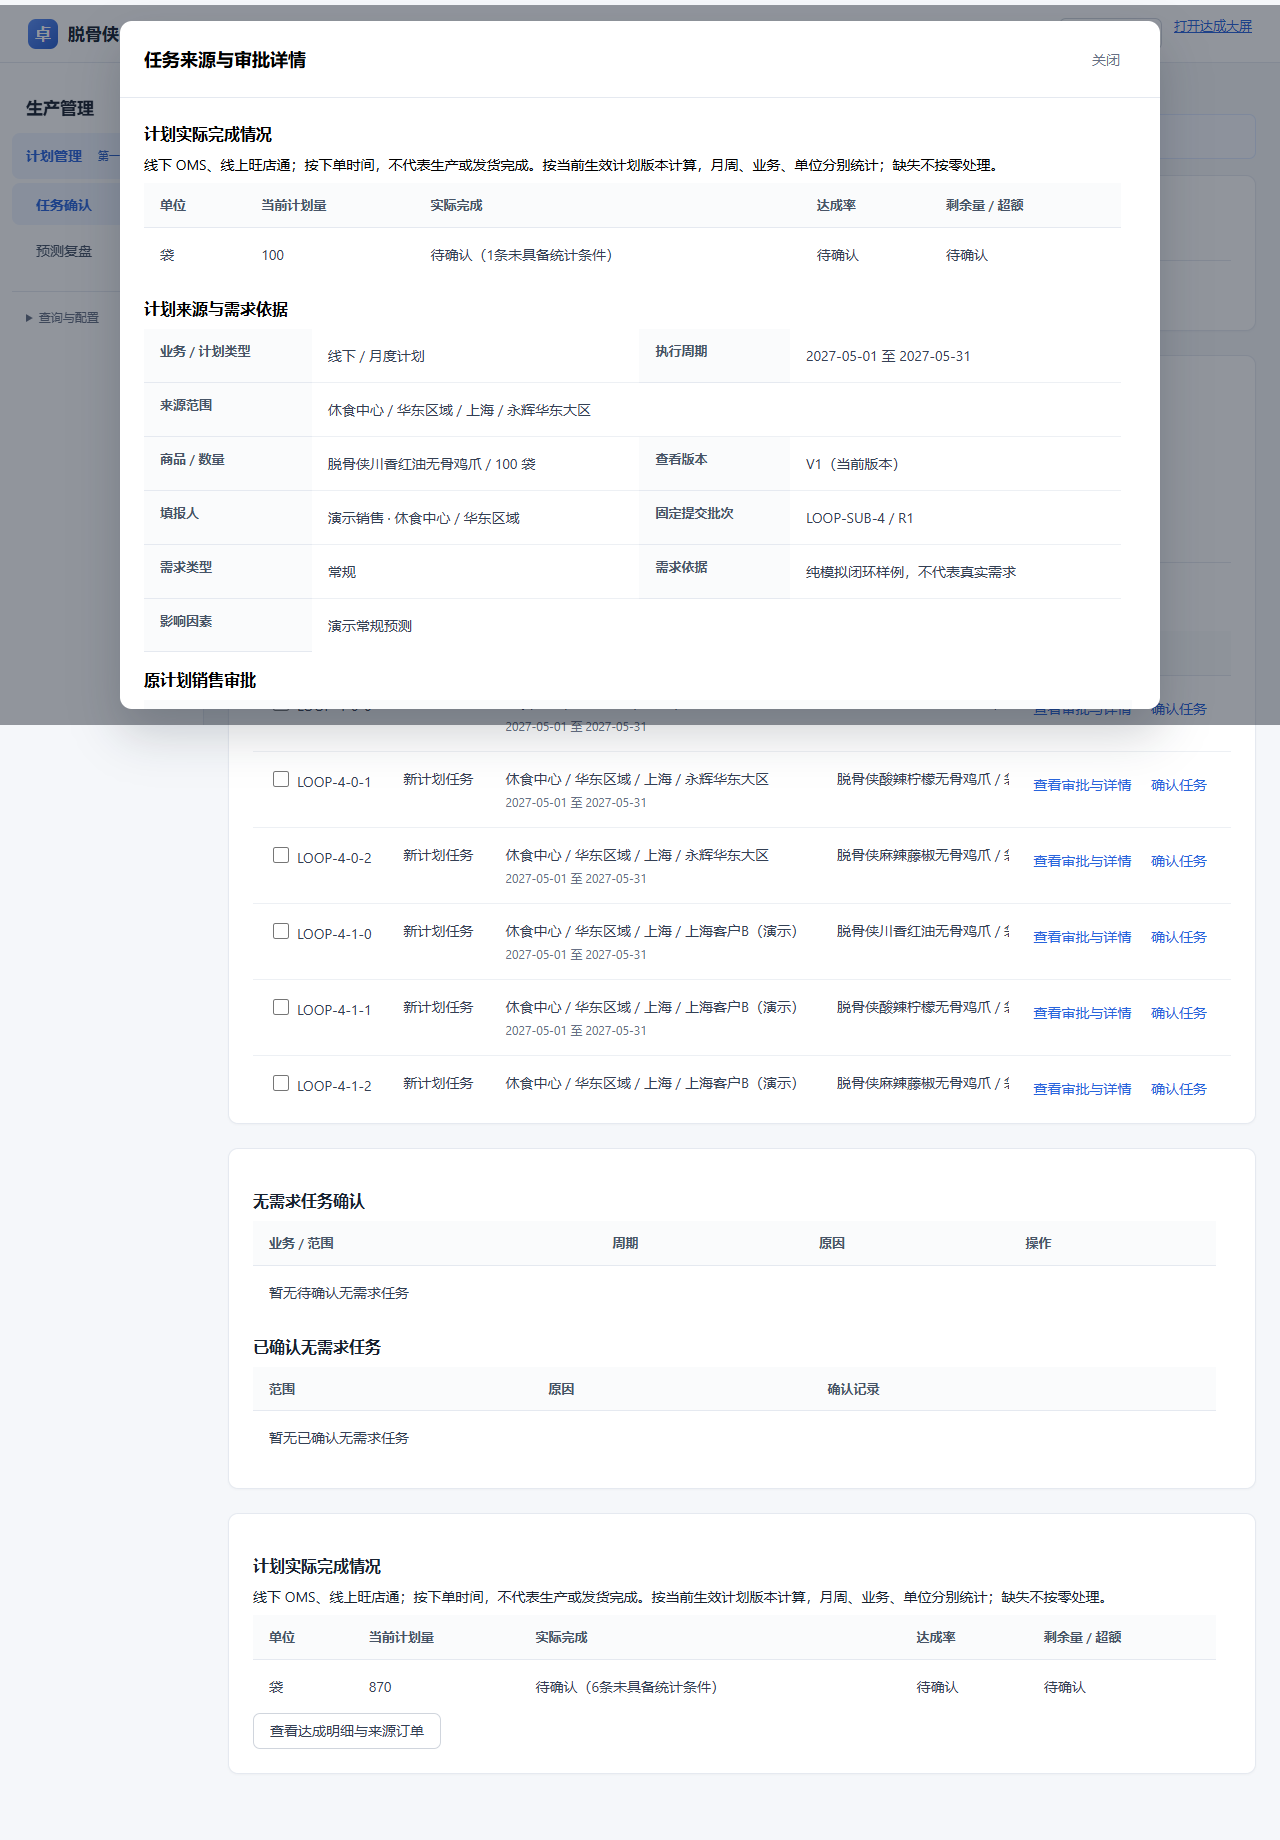
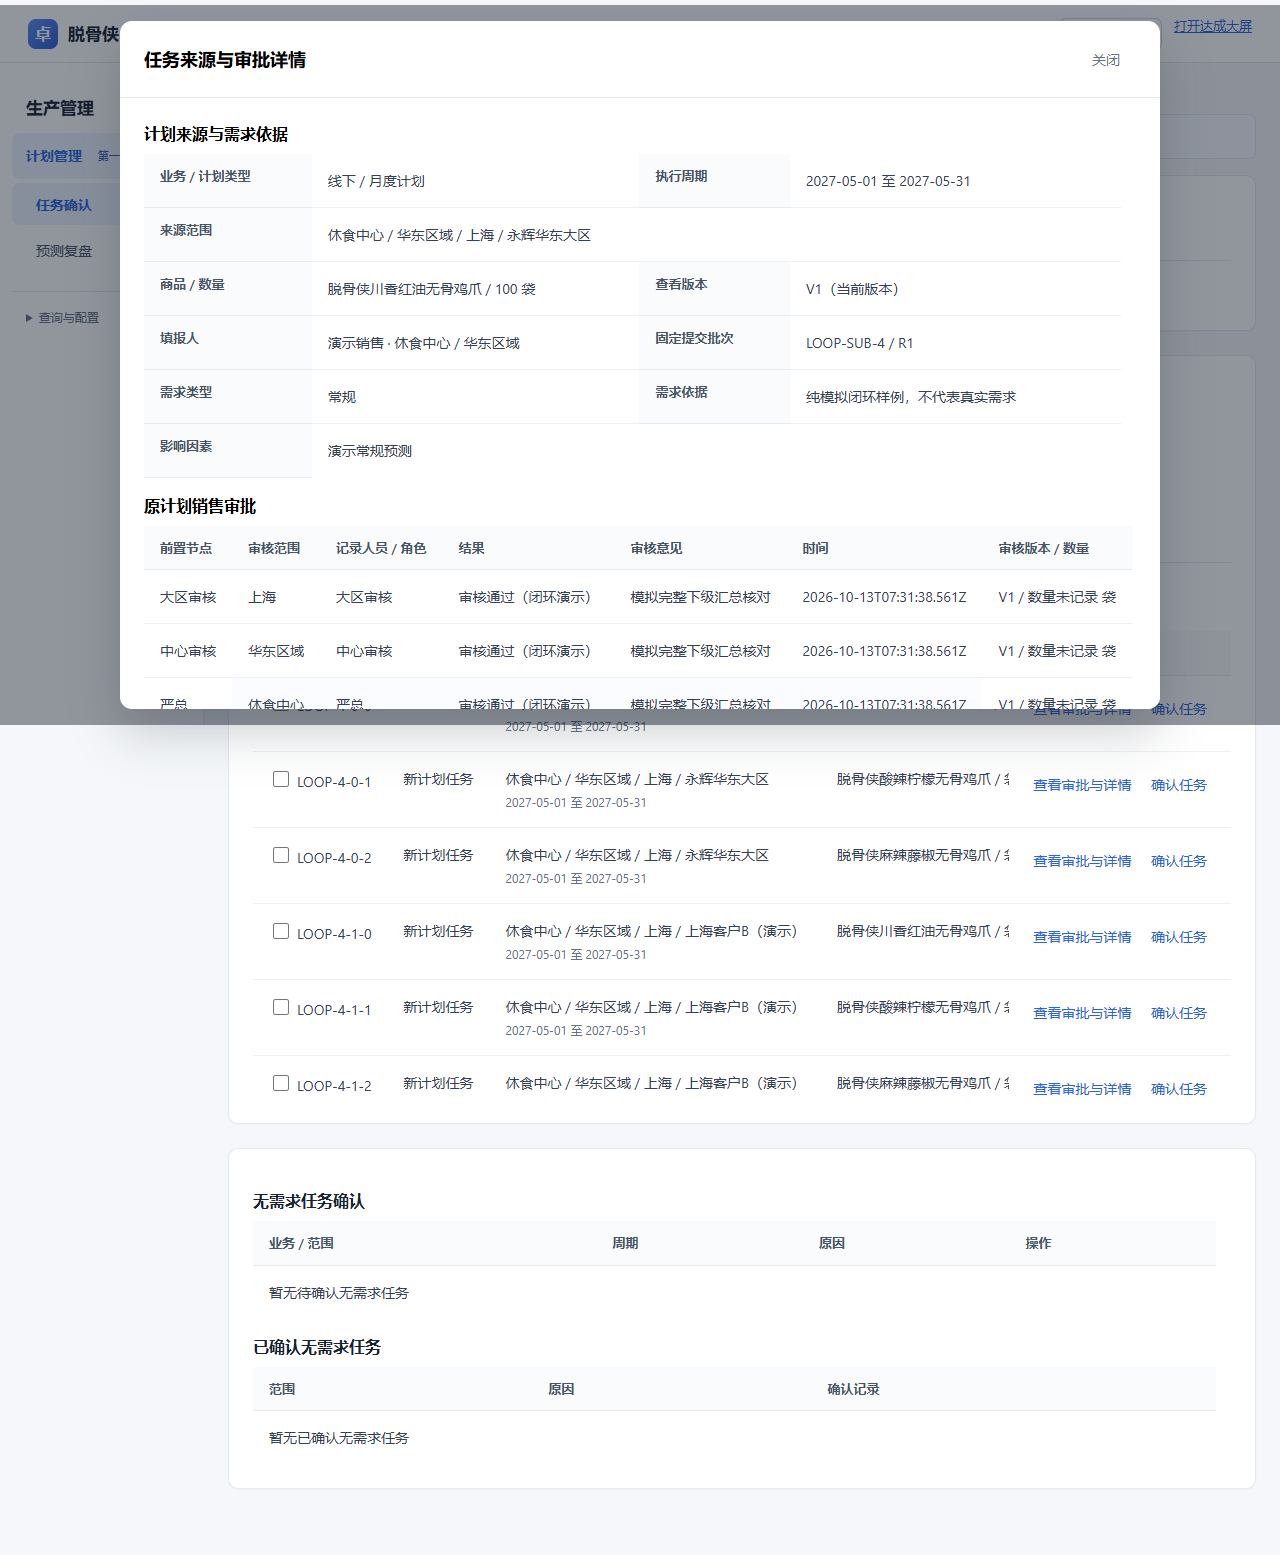
Auto sync 2026-10-13 15:31:39

diff --git a/09-设计与原型/销售计划管理/07-销售计划管理PRD.md b/09-设计与原型/销售计划管理/07-销售计划管理PRD.md
@@ -78,7 +78,7 @@
 
 ## 全角色计划完成跟踪
 
-填报人员的计划单、审核人员的下级汇总及商品/客户详情、计划部门的待确认/已确认任务列表和任务详情，均展示计划量、实际完成量、达成率、剩余量及超额量，并提供当前范围订单来源下钻。达成为下单销量，不是生产或发货完成；按当前生效版本计算，不把历史确认时点与当前销量混淆。
+完成情况嵌入原计划，不增加独立卡片或单独完成列表。填报人员的计划单及原商品明细、审核人员的下级汇总及商品/客户详情、计划部门的已确认任务列表和详情，在同一行展示计划量、实际完成量、达成率、剩余量及超额量，点击本行实际销量查看对应订单。待确认任务以接收需求为主，不展示达成列；未生效计划达成率用“—（未生效）”，不显示成零。达成为下单销量，不是生产或发货完成；按当前生效版本计算，不把历史确认时点与当前销量混淆。
 
 只有生效计划且同期同步完整、统计口径明确、订单匹配无冲突时计算正式达成。未生效、待同步、口径未确认分别说明原因；已同步原始订单量仅作参考，取消排除但不冒充正式净销量。汇总中有不具备条件的明细时不计算总体达成率，可单独展示已具备条件部分实际量；单位、业务和月周独立。所有数据保持当前角色可见范围。
 

diff --git a/09-设计与原型/销售计划管理/销售计划管理验收记录.md b/09-设计与原型/销售计划管理/销售计划管理验收记录.md
@@ -14,6 +14,10 @@
 
 填报、审核、计划部门页面的计划实际完成及订单来源专项验证通过：有效订单40、退货5得到净量35；计划100对应达成35%、剩余65。月周不叠加、混合单位分组、缺同步不按零显示。任务详情和只读审批保持可用。统一回归入口新增全角色计划达成验收，共12组。
 
+## 达成与原计划合并调整
+
+移除列表底部独立完成卡片和确认弹窗重复卡片。销量、达成率、剩余量在原计划行及客户/商品明细同排展示，实际销量为订单下钻入口。待确认页不显示达成列，已确认页显示当前生效版本的计划量及达成。专项测试覆盖无独立卡片及待确认/已确认列区分。
+
 ## 当前验证通过
 
 - 业务闭环规则：未发布清单不能提交；固定批次与当前内容不一致时不能审核；统计口径未确认不算正式达成；订单行去重、冲突排除、退货净量；同步不完整不算零；线上整单无需求经丹总审核、计划部门确认。
